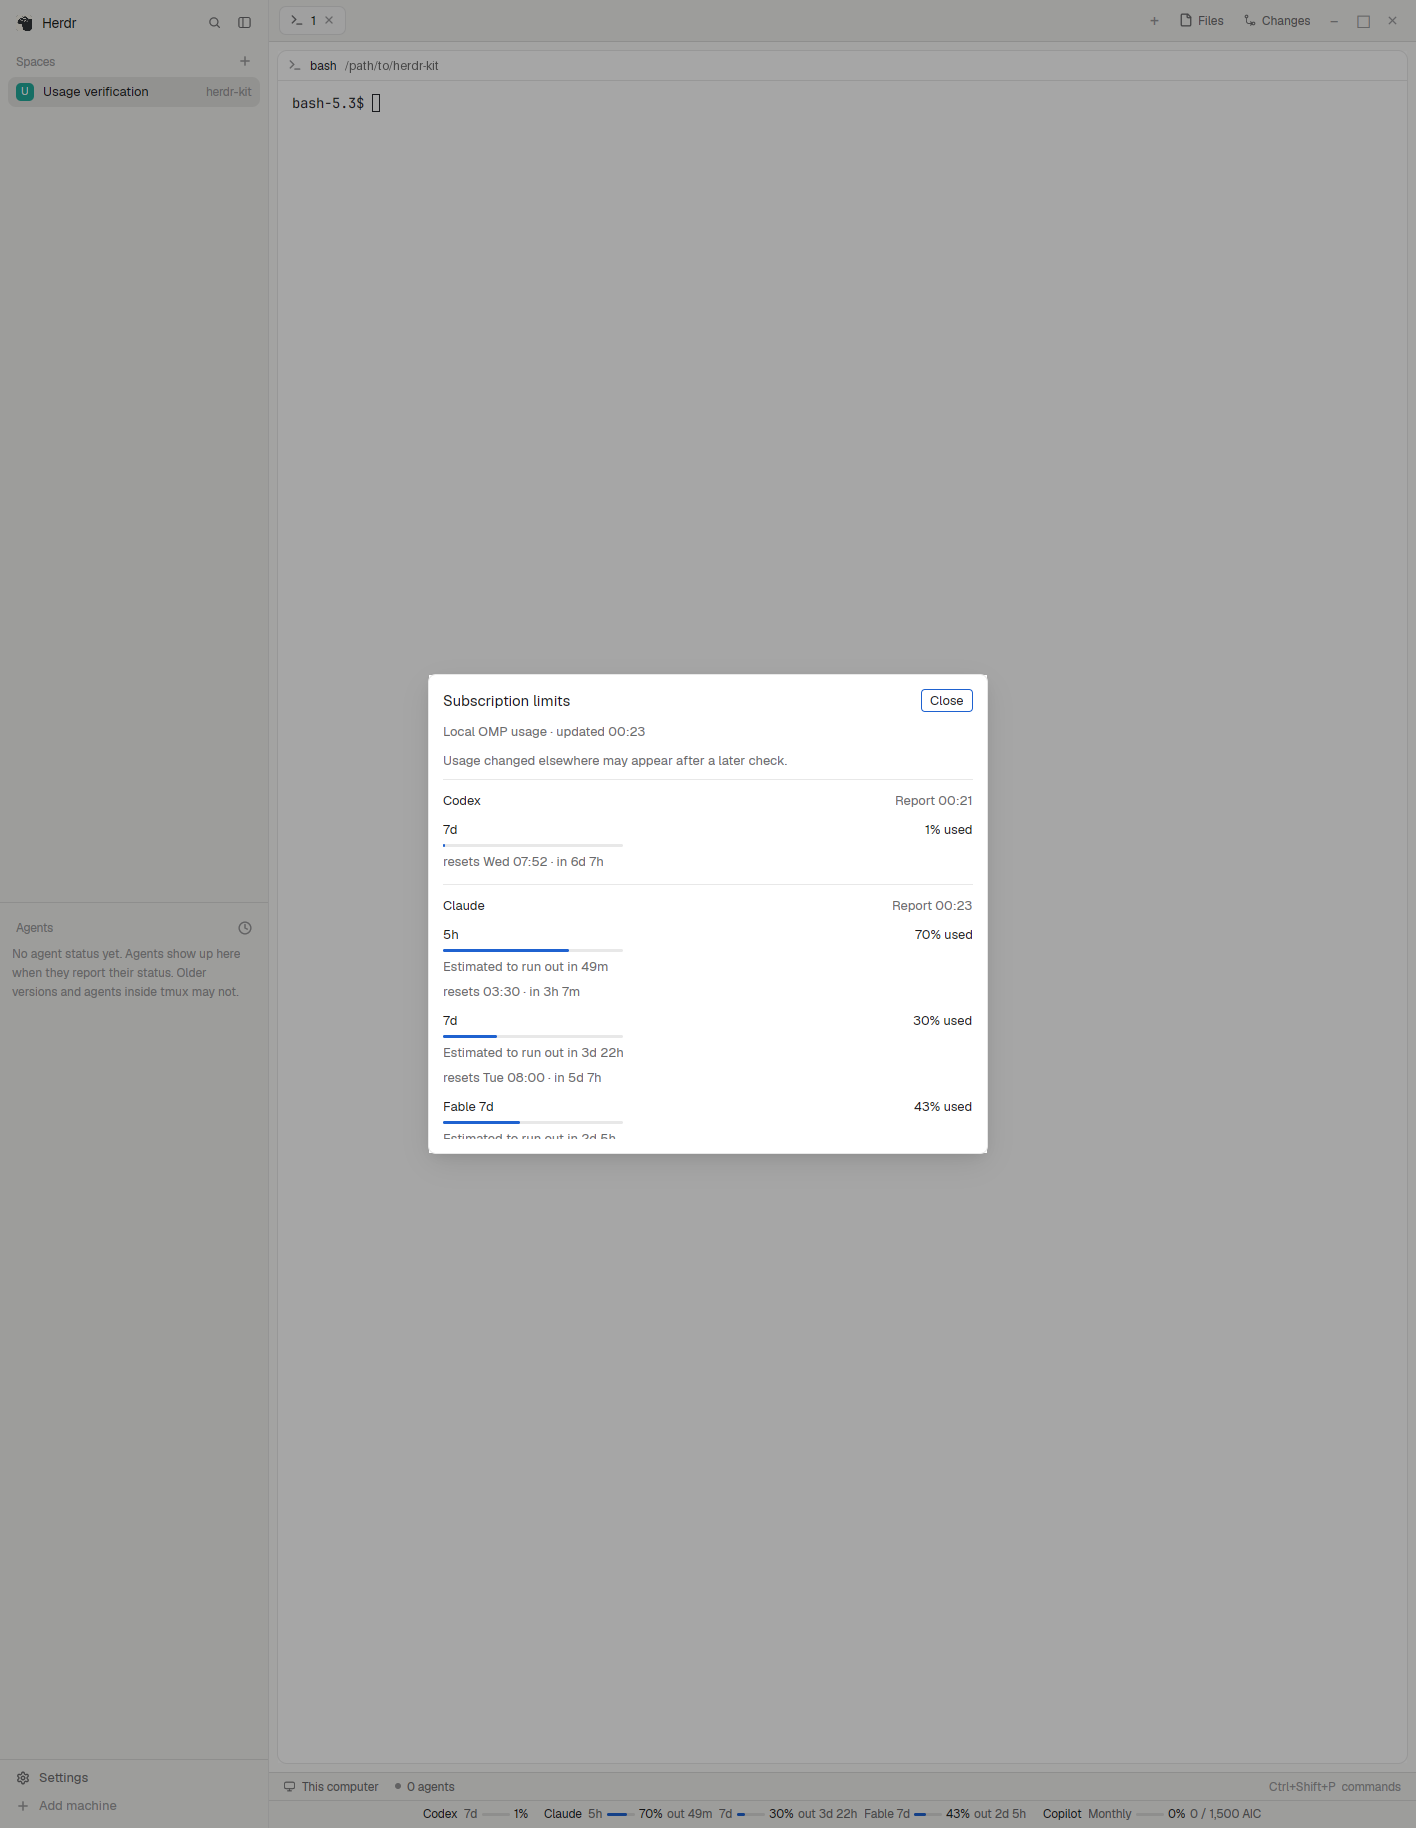
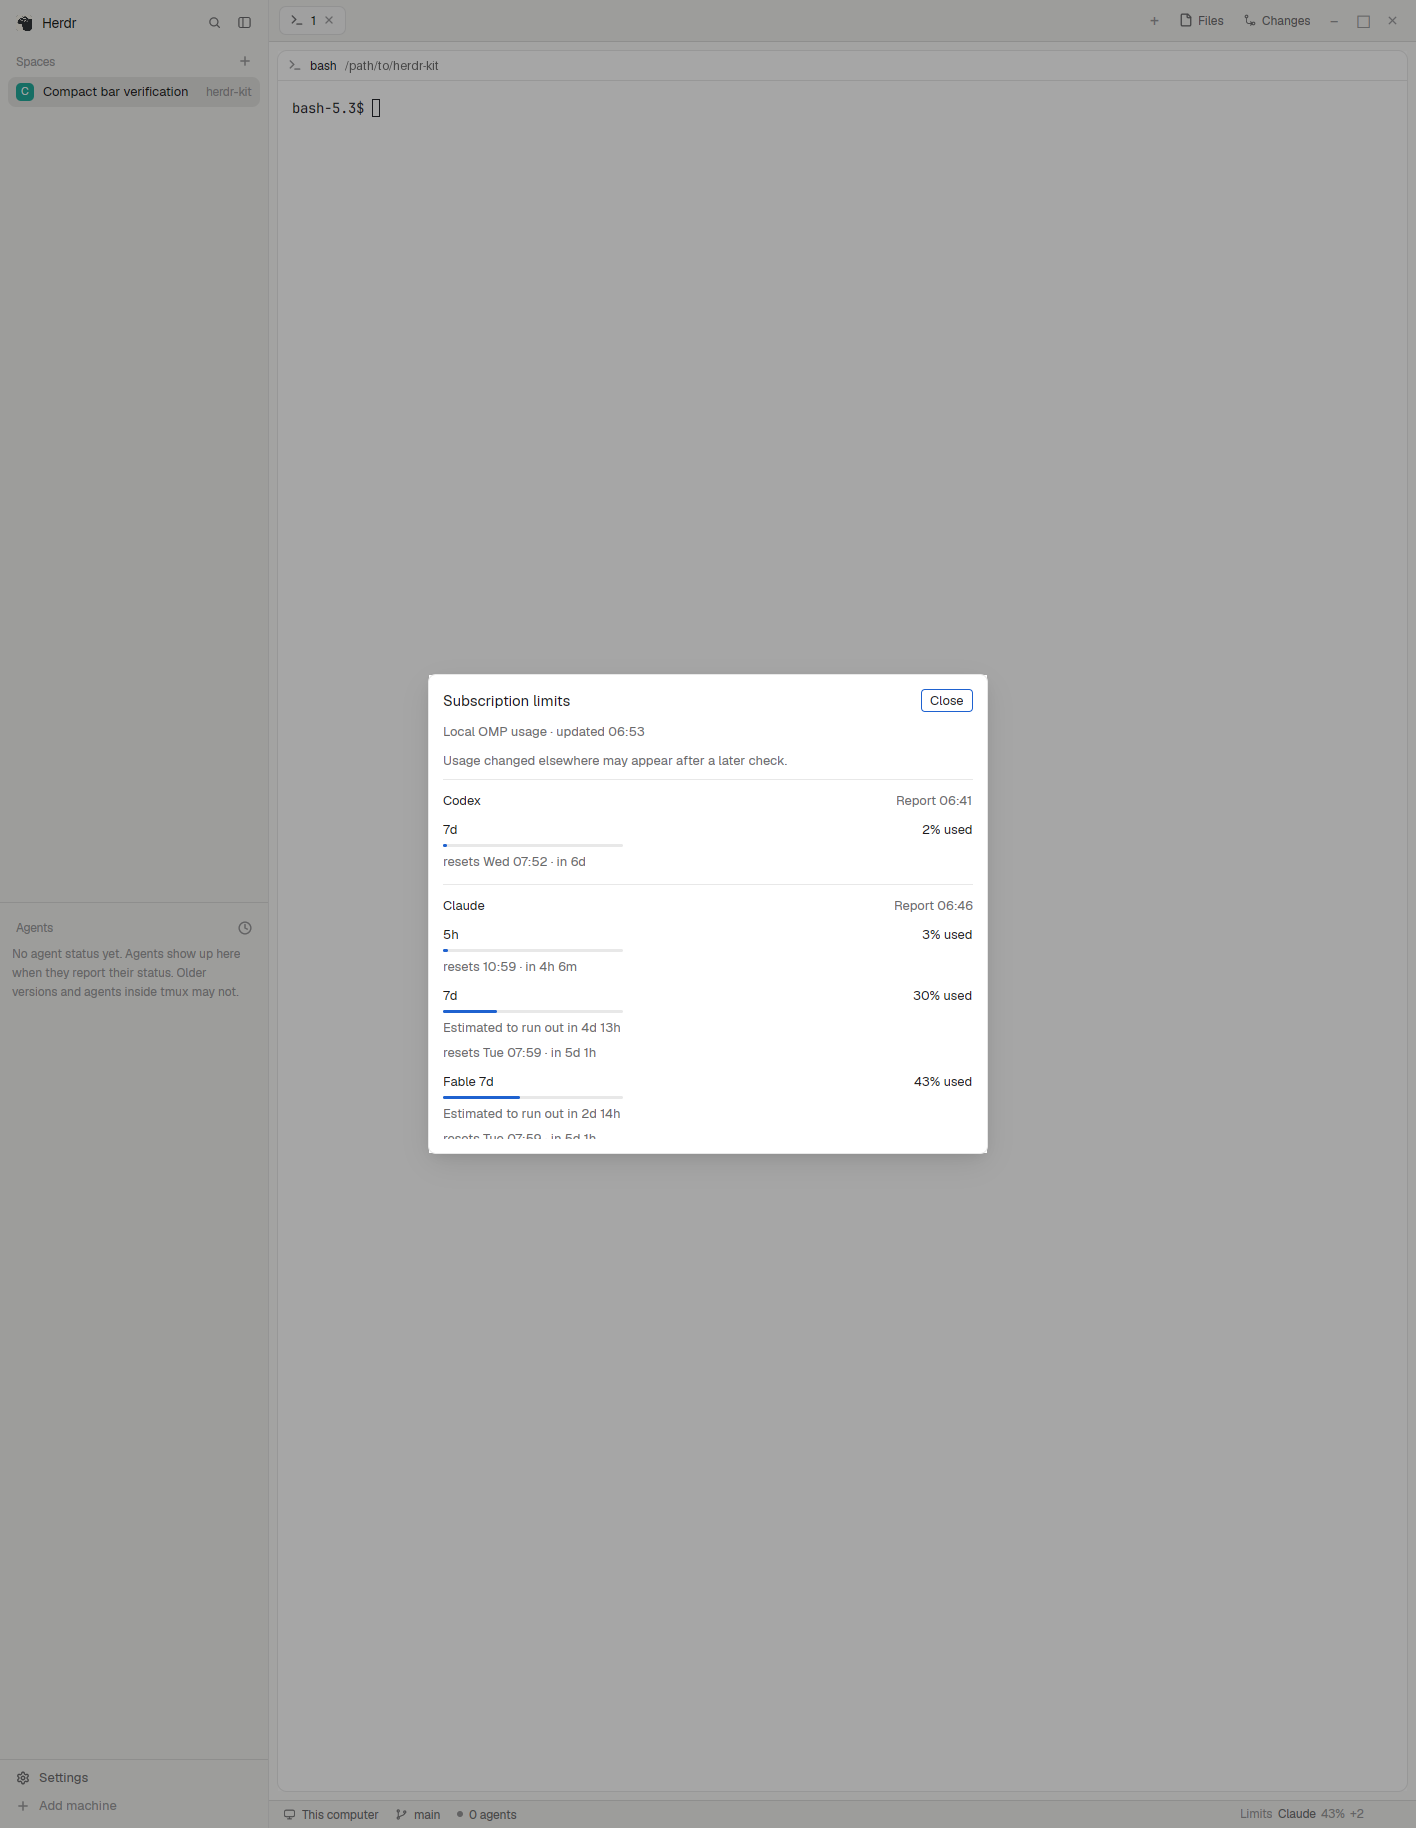
Replace bottom-right palette hint with compact usage readout

diff --git a/mods/herdr-kit-usage/main.js b/mods/herdr-kit-usage/main.js
@@ -1,6 +1,6 @@
-import { View, div } from 'gpui-kit';
+import { View, div, svg } from 'gpui-kit';
 import { h_flex, v_flex, Button, ScrollHandle } from 'gpui-base';
-import { agents, theme, props, shared, setShared, exec, openOverlay, closeOverlay, nextCommand } from 'herdr';
+import { agents, spaces, theme, props, shared, setShared, exec, openOverlay, closeOverlay, nextCommand } from 'herdr';
 import { BINARY, DATA_DIR, MOD_NAME } from './runtime.js';
 import { decodeSnapshot, views, summary, bestSegment, usedFraction, value, label, credits, pace, staleLimit, span, reset, errorText, formatTime, formatDateTime } from './model.js';
 
@@ -56,22 +56,48 @@ export default class Usage extends View {
     if (maintaining) return; maintaining = true;
     cx.spawn(async () => { try { await exec(BINARY,[...args(),'update','maintain'],{timeout:600000}); } catch (_) {} finally { maintaining = false; } });
   }
-  strip(snapshot,offline,t,now) {
-    const all = views(snapshot,now,offline), visible = all.filter(v => v.provider.state !== 'not_signed_in');
+  statusbar(snapshot,offline,t,now) {
+    const all = views(snapshot,now,offline);
+    const visible = all.filter(v => v.provider.state !== 'not_signed_in');
+    const narrow = this.width < 500;
+    const worst = summary(all);
+    const selected = worst && (bestSegment(worst.segments,true) || bestSegment(worst.segments));
     const description = fullLabel(all,offline);
-    let content;
-    if (!snapshot) content = this.failed ? 'Limits unavailable' : 'Limits …';
-    else if (this.width < 88) content = 'Limits';
-    else if (this.width < 220) { const v = summary(all), s = v && (bestSegment(v.segments,true) || bestSegment(v.segments)); content = `Limits ${s ? value(s.limit)+(s.stale?' ~':'') : '—'}${visible.length > 1 ? ` +${visible.length-1}` : ''}`; }
-    else if (this.width < 520) { const v = summary(all), s = v && (bestSegment(v.segments,true) || bestSegment(v.segments)); content = v ? `${v.name} ${s ? segmentText(s,true) : '—'}${visible.length > 1 ? ` +${visible.length-1}` : ''}` : 'Limits —'; }
-    const root = Button.new('usage-strip').track_focus(this.handle).tab_index(0).size_full().px(14).items_center().bg(t.chrome).border_t(1).border_color(this.handle.is_focused() ? t.accent : t.border).text_size(11.8).text_color(t.foreground).tooltip(description).accessibility_label(description).on_click(() => this.open());
-    if (content !== undefined) return root.child(content);
-    return root.child(h_flex().gap(16).items_center().children(visible.map(v => {
-      const segments = this.width < 900 ? [bestSegment(v.segments,true) || bestSegment(v.segments)].filter(Boolean) : v.segments;
-      const group = h_flex().gap(6).items_center().child(div().font_semibold().child(v.name));
-      if (!segments.length) return group.child(div().text_color(t.muted).child(v.provider.state === 'unsupported' ? 'n/a' : v.provider.state === 'pending' ? '…' : '—'));
-      return group.children(segments.map(s => h_flex().gap(4).items_center().child(div().text_color(t.muted).child(label(s.limit))).child(meter(s,t,28)).child(div().child(value(s.limit)+(s.stale?' ~':''))).when(this.width >= 900 && !!credits(s.limit), el => el.child(div().text_color(t.muted).child(credits(s.limit)))).when(this.width >= 900 && !!s.pace?.runsOutMs, el => el.child(div().text_color(t.muted).child(`out ${span(s.pace.runsOutMs)}`)))));
-    })));
+    const readout = Button.new('usage-readout').track_focus(this.handle).tab_index(0)
+      .w(narrow ? 120 : 200).h(26).px(6).items_center()
+      .bg(t.chrome).rounded(3).border(1)
+      .border_color(this.handle.is_focused() ? t.accent : t.chrome)
+      .hover(s => s.bg(t.hover).text_color(t.foreground))
+      .text_size(11.8).text_color(t.dim).tooltip(description)
+      .accessibility_label(description).on_click(() => this.open());
+    if (!snapshot) {
+      readout.child(this.failed ? 'Limits unavailable' : 'Limits …');
+    } else if (!visible.length) {
+      readout.child('Limits');
+    } else {
+      const amount = selected ? value(selected.limit)+(selected.stale ? ' ~' : '') : worst?.provider.state === 'unsupported' ? 'n/a' : '—';
+      readout.child(h_flex().gap(5).items_center()
+        .child('Limits')
+        .when(!narrow && Boolean(worst),el => el.child(div().text_color(t.muted).child(worst.name)))
+        .child(div().text_color(selected?.used > .8 ? segmentColor(selected,t) : t.dim).child(amount))
+        .when(visible.length > 1,el => el.child(`+${visible.length-1}`)));
+    }
+    const space = spaces().find(s => s.active);
+    const list = agents();
+    const needs = list.filter(a => a.status === 'blocked').length;
+    const statusLabel = (icon,text) => h_flex().gap(6).items_center()
+      .child(svg(`mods/${MOD_NAME}/${icon}.svg`).size(13))
+      .child(div().min_w(0).truncate().child(text));
+    const left = h_flex().flex_1().min_w(0).gap(16).items_center().overflow_hidden()
+      .child(statusLabel(space?.machine ? 'server' : 'monitor',space?.machine ?? 'This computer'))
+      .when(Boolean(space?.branch),el => el.child(div().max_w(160).min_w(0).child(statusLabel('branch',space.branch))))
+      .child(h_flex().gap(6).items_center()
+        .child(div().size(6).rounded(3).bg(t.dim)).child(`${list.length} agents`)
+        .when(needs > 0,el => el.child(div().text_color(t.blocked).child(`· ${needs} needs you`))))
+      .child(div().flex_1());
+    return h_flex().size_full().px(14).gap(16).items_center().bg(t.chrome)
+      .border_t(1).border_color(t.border).text_size(11.8).text_color(t.muted)
+      .child(left).child(readout);
   }
   detailLimit(l, account, p, offline, t, now) {
     const stale = offline || p.stale || p.error !== null || staleLimit(l,account.fetched_at_ms,now), used = usedFraction(l), estimate = pace(l,now,stale), r = reset(l.resets_at_ms,now), c = credits(l,true);
@@ -106,6 +132,6 @@ export default class Usage extends View {
   }
   render() {
     const snapshot = readShared(), offline = !validated || this.failed, t = theme(), now = Date.now();
-    return div().id('usage-root').size_full().on_size_change((size,cx) => { if (this.width !== size.width) { this.width=size.width; cx.notify(); } }).child(this.details ? this.detail(snapshot,offline,t,now) : this.strip(snapshot,offline,t,now));
+    return div().id('usage-root').size_full().on_size_change((size,cx) => { if (this.width !== size.width) { this.width=size.width; cx.notify(); } }).child(this.details ? this.detail(snapshot,offline,t,now) : this.statusbar(snapshot,offline,t,now));
   }
 }

diff --git a/RECIPE.md b/RECIPE.md
@@ -1,6 +1,6 @@
 # Herdr Kit
 
-A native Herdr workbench with a quiet bottom subscription-usage strip, backed
+A native Herdr workbench with a compact bottom-right subscription readout, backed
 by one extensible Rust command-line tool. Usage and local-repository suite
 updates are the initial capabilities.
 
@@ -9,10 +9,11 @@ updates are the initial capabilities.
 ## What you see
 
 Keep the stock Herdr Spaces/Agents sidebar, tab bar, terminal panes, Files and
-Changes panels and existing statusbar. Add a 28px strip below the existing
-statusbar, with Codex/Claude/Copilot usage. Use the current theme, 14px horizontal
-inset and normal Herdr UI font. Narrow widths summarize rather than shrinking
-text. Click for a native subscription-details dialog with all anonymous
+Changes panels. In the existing 28px statusbar, preserve machine, branch and
+agent indicators on the left and replace the command-palette hint on the right
+with `Limits Claude 71% +2`. Add no extra row. Use the current theme, existing
+14px horizontal inset and normal Herdr UI font. Narrow bars omit the provider
+name. Click for a native subscription-details dialog with all anonymous
 accounts, source timestamps, windows, meters, AIC, resets and conditional
 exhaustion estimates. Unknown/unlimited/zero/unavailable/stale remain distinct.
 

diff --git a/README.md b/README.md
@@ -76,10 +76,12 @@ installation.
 
 ## Usage statusbar
 
-The named layout preserves the existing Herdr workbench/status and adds a
-28px usage strip. Click it or open its revision-named mod using Herdr's mod
-command to view subscription details. Escape/Close dismisses the native dialog.
-Narrow strips summarize providers instead of shrinking the text.
+The named layout preserves the existing 28px Herdr statusbar and replaces its
+bottom-right command-palette hint with a compact `Limits Claude 71% +2` readout.
+Machine, branch and agent indicators stay on the left; no extra row is added.
+Click the readout to view all providers, windows, credits and estimates in the
+native details dialog. Escape/Close dismisses it. Narrow bars omit the provider
+name instead of shrinking the text. The command-palette shortcut still works.
 
 Rust runs `omp usage --json --redact --no-extensions`, then keeps only anonymous
 allowlisted quotas for Codex, Claude and Copilot. OMP owns authentication and

diff --git a/CHANGELOG.md b/CHANGELOG.md
@@ -1,5 +1,10 @@
 # Changelog
 
+## Unreleased
+
+- Integrate usage into the existing 28px statusbar, replacing the bottom-right
+  command-palette hint with a compact readout; remove the separate usage row.
+
 ## 0.1.0
 
 - One extensible Rust CLI and native GPUI Herdr layout/mod suite.
